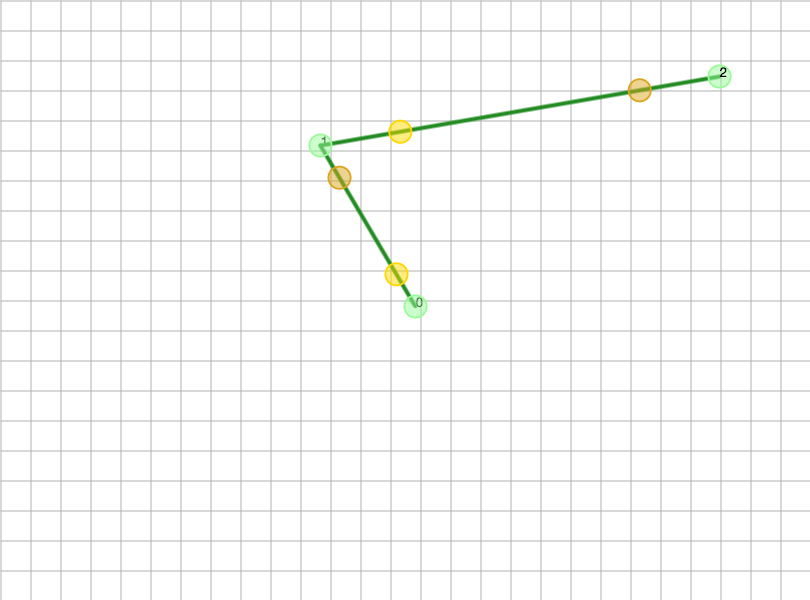
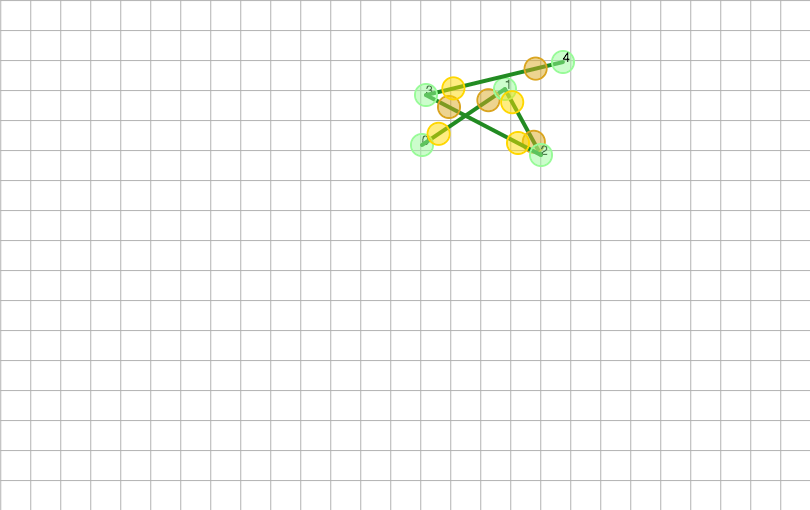
Changed map to anchorpane

diff --git a/src/authoringEnvironment/map/MapWorkspace.java b/src/authoringEnvironment/map/MapWorkspace.java
@@ -29,7 +29,7 @@ import authoringEnvironment.util.Scaler;
  * @author callie
  *
  */
-public class MapWorkspace extends StackPane {
+public class MapWorkspace extends AnchorPane {
 
     private static final Color MAP_BACKGROUND_COLOR = Color.web("2A2A29");
 
@@ -73,7 +73,11 @@ public class MapWorkspace extends StackPane {
 
     public TileMap createDefaultMap () {
         TileMap defaultMap = new TileMap(DEFAULT_MAP_ROWS, DEFAULT_MAP_COLS, DEFAULT_TILE_SIZE);
-        AnchorPane.setAlignment(v,Pos.CENTER_LEFT);
+        defaultMap.getRoot().setTranslateX(AuthoringEnvironment.getEnvironmentWidth() *
+                                           WORKSPACE_WIDTH_MULTIPLIER/12);
+        defaultMap.getRoot().setTranslateY(AuthoringEnvironment.getEnvironmentHeight() *
+                                           WORKSPACE_WIDTH_MULTIPLIER/12);
+      //  AnchorPane.setAlignment(v,Pos.CENTER_LEFT);
         updateWithNewMap(defaultMap);
         return defaultMap;
     }
@@ -115,8 +119,8 @@ public class MapWorkspace extends StackPane {
         scale.setOnFinished( (e) -> {
             update(myActivePath, object);
             
-            object.getRoot().setTranslateX(object.getTranslation().getX());
-            object.getRoot().setTranslateY(object.getTranslation().getY());
+           // object.getRoot().setTranslateX(object.getTranslation().getX());
+           // object.getRoot().setTranslateY(object.getTranslation().getY());
             myActivePath = object;    
             
         });
@@ -138,7 +142,10 @@ public class MapWorkspace extends StackPane {
         Text saved = new Text(text);
         saved.setFill(color);
         saved.setFont(new Font(MESSAGE_FONT_SIZE));
-        StackPane.setAlignment(saved, Pos.BOTTOM_CENTER);
+        saved.setTranslateX(AuthoringEnvironment.getEnvironmentWidth() *
+                            WORKSPACE_WIDTH_MULTIPLIER/12);
+        saved.setTranslateY(AuthoringEnvironment.getEnvironmentHeight() *
+                                           WORKSPACE_WIDTH_MULTIPLIER*.9);
         getChildren().add(saved);
         PauseTransition pause = new PauseTransition(Duration.millis(MESSAGE_DISPLAY_DURATION));
         pause.play();

diff --git a/src/authoringEnvironment/map/MapSidebar.java b/src/authoringEnvironment/map/MapSidebar.java
@@ -179,12 +179,13 @@ public class MapSidebar extends Sidebar {
     private void remove (GameObject object,
                          UpdatableDisplay updateDisplay,
                          ObservableList<GameObject> observableList) {
+        observableList.remove(object);
+        updateDisplay.updateDisplay(observableList);
         ScaleTransition scale =
                 Scaler.scaleOverlay(1.0, 0.0, object.getRoot());
         scale.setOnFinished( (e) -> {
             if (observableList != null && observableList.contains(object)) {
-                observableList.remove(object);
-                updateDisplay.updateDisplay(observableList);
+                
                 getMapWorkspace().remove(object.getRoot());
             }
          
@@ -465,9 +466,11 @@ public class MapSidebar extends Sidebar {
         //TODO: don't have an active path when save twice in a row without reselecting the path
         activePath.setName(pathNameTextField.getText());
         
-        double transX = activePath.getRoot().getTranslateX();
+/*        double transX = activePath.getRoot().getTranslateX();
         double transY = activePath.getRoot().getTranslateY();
-        activePath.setTranslation(transX, transY);
+        System.out.println("transX" + transX);
+        System.out.println("transY" + transY);
+        activePath.setTranslation(transX, transY);*/
         
         Map<String, Object> mapSettings = activePath.save();
         
@@ -502,8 +505,6 @@ public class MapSidebar extends Sidebar {
     }
     
     public void updateTileDisplay(){
-        System.out.println("UPDATE TILEDISPLAY WITH THESE: " +
-                myController.getKeysForPartType(Variables.PARTNAME_TILE));
         tileDisplay.updateDisplay();
         //tileDisplay.updateDisplay(myPaths);
     }

diff --git a/src/authoringEnvironment/pathing/PathView.java b/src/authoringEnvironment/pathing/PathView.java
@@ -165,14 +165,6 @@ public class PathView extends GameObject {
         info += "\nNumber of anchor points: " + numPoints;
         return info;
     }
-    
-    public void setTranslation(double x, double y){
-        paneTranslation = new Coordinate(x, y);
-    }
-    
-    public Coordinate getTranslation(){
-        return paneTranslation;
-    }
 
     @Override
     public Group getRoot () {
